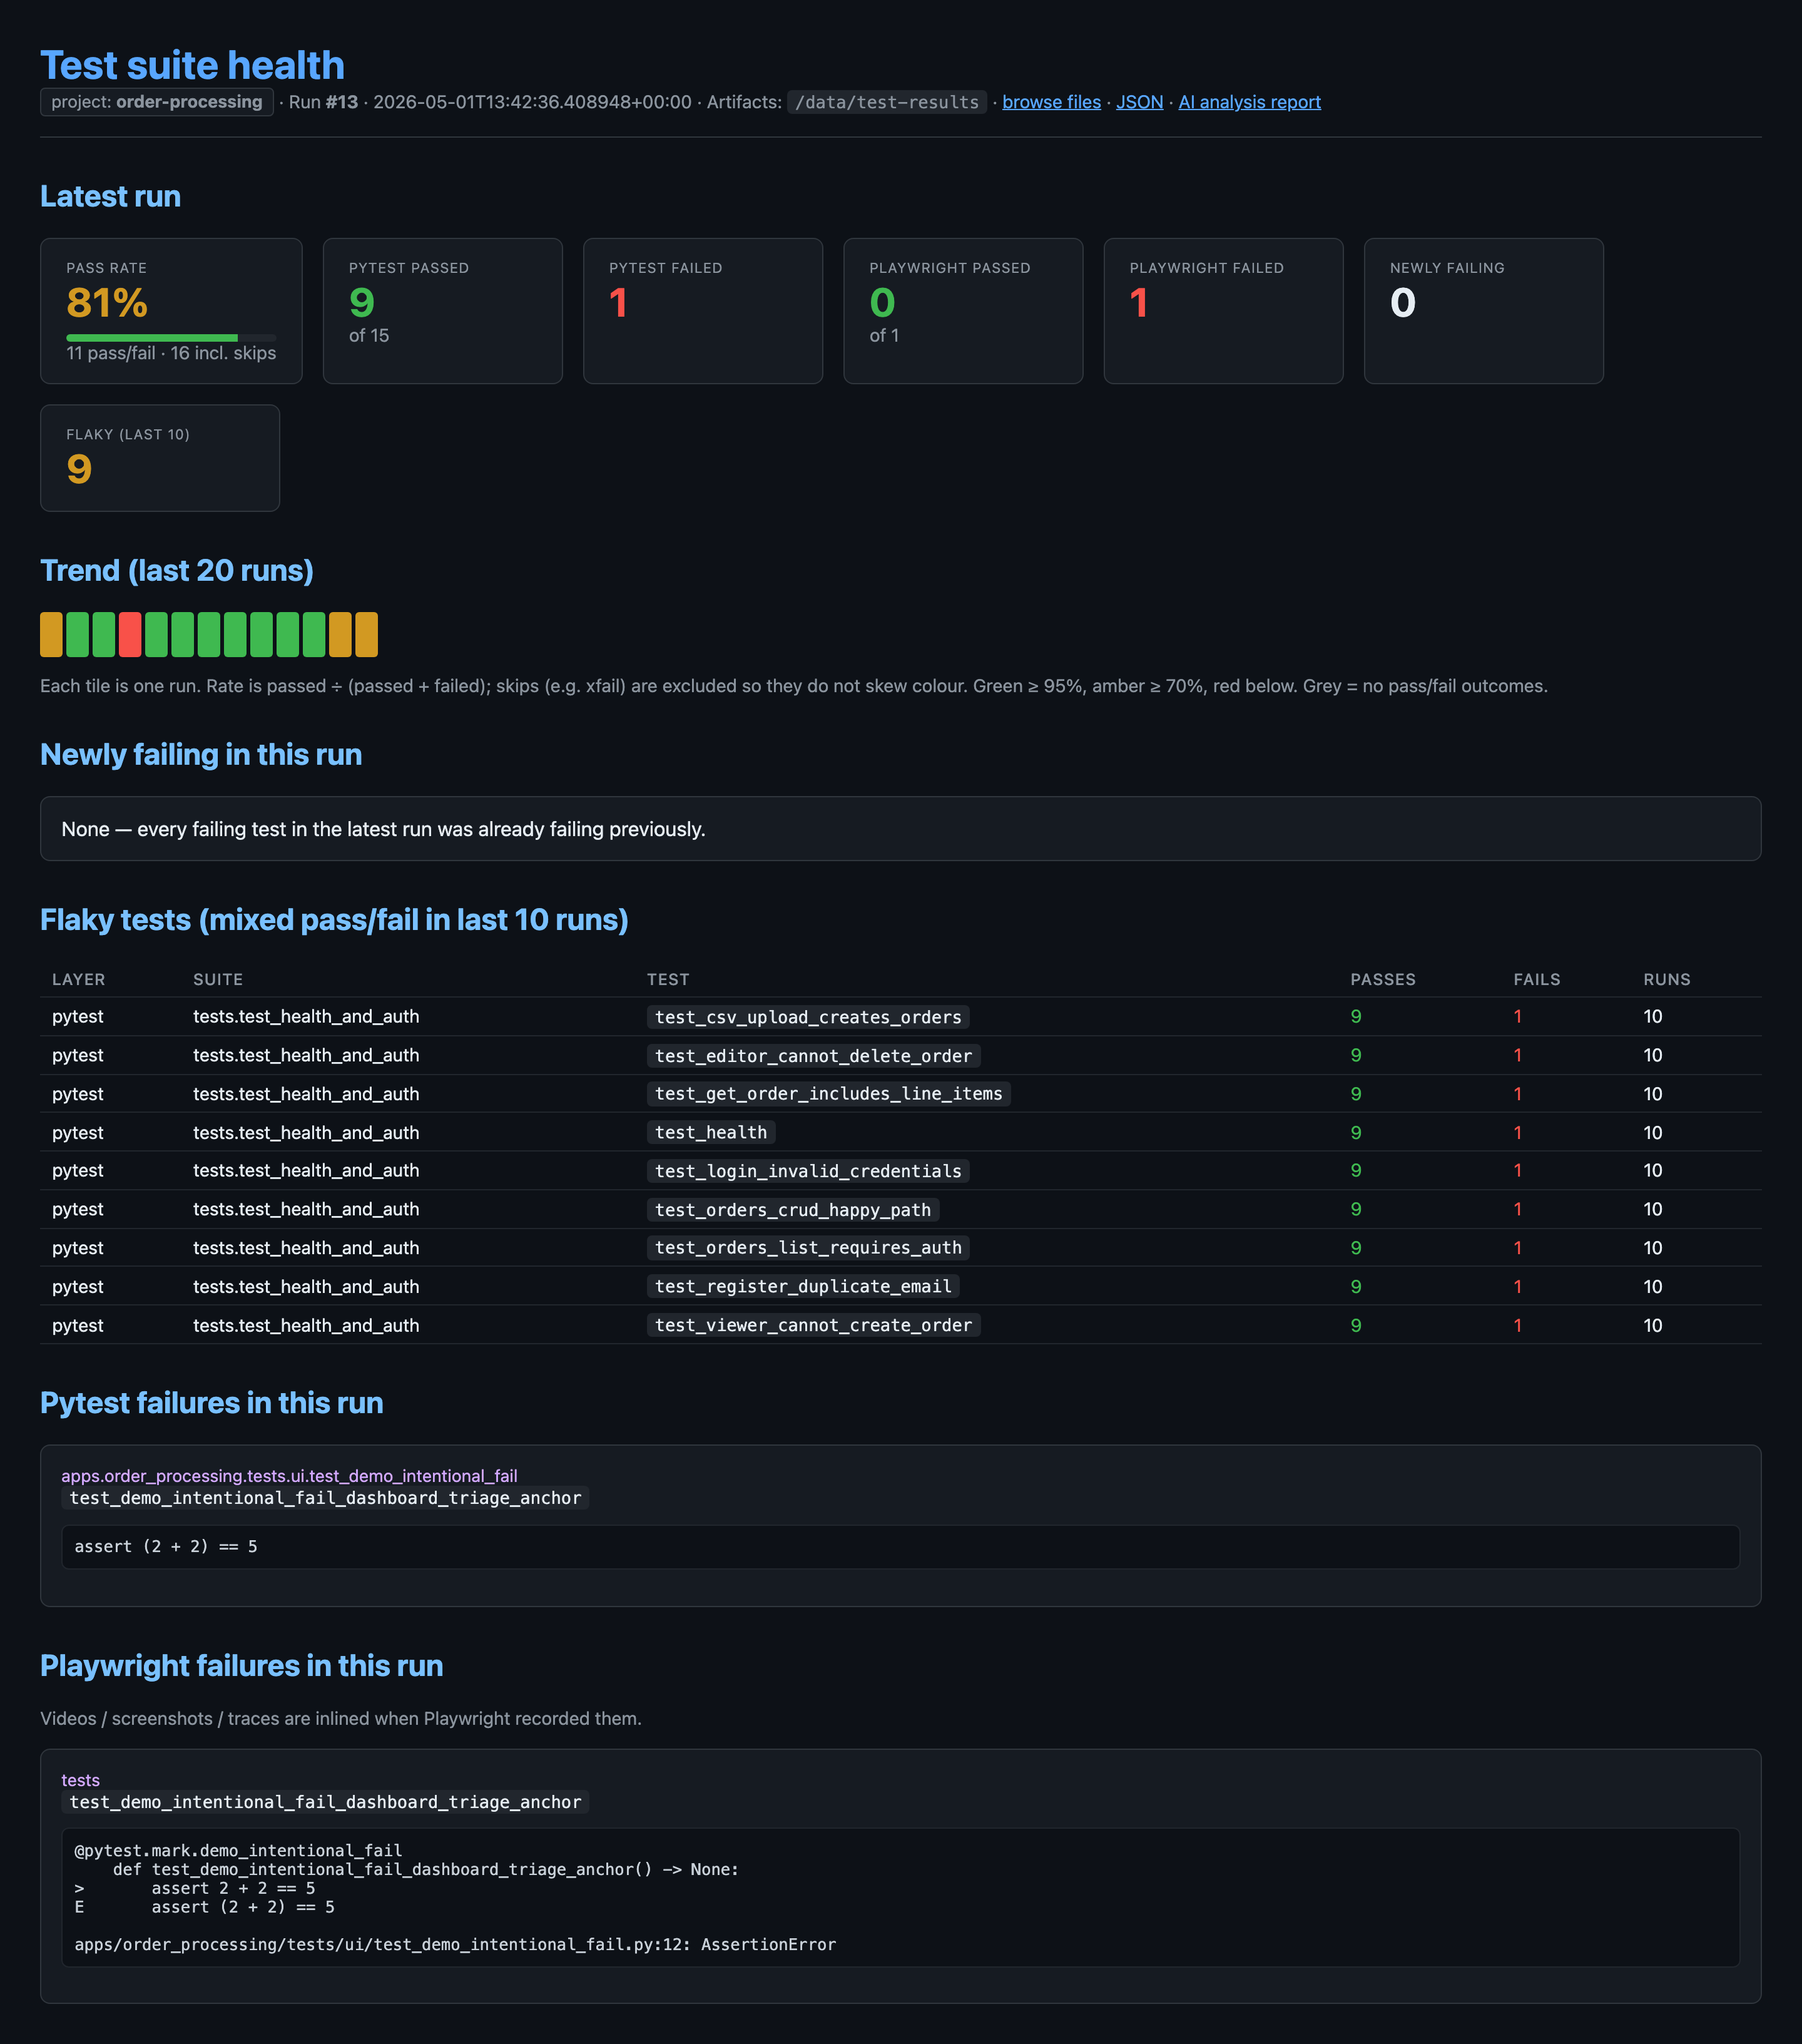
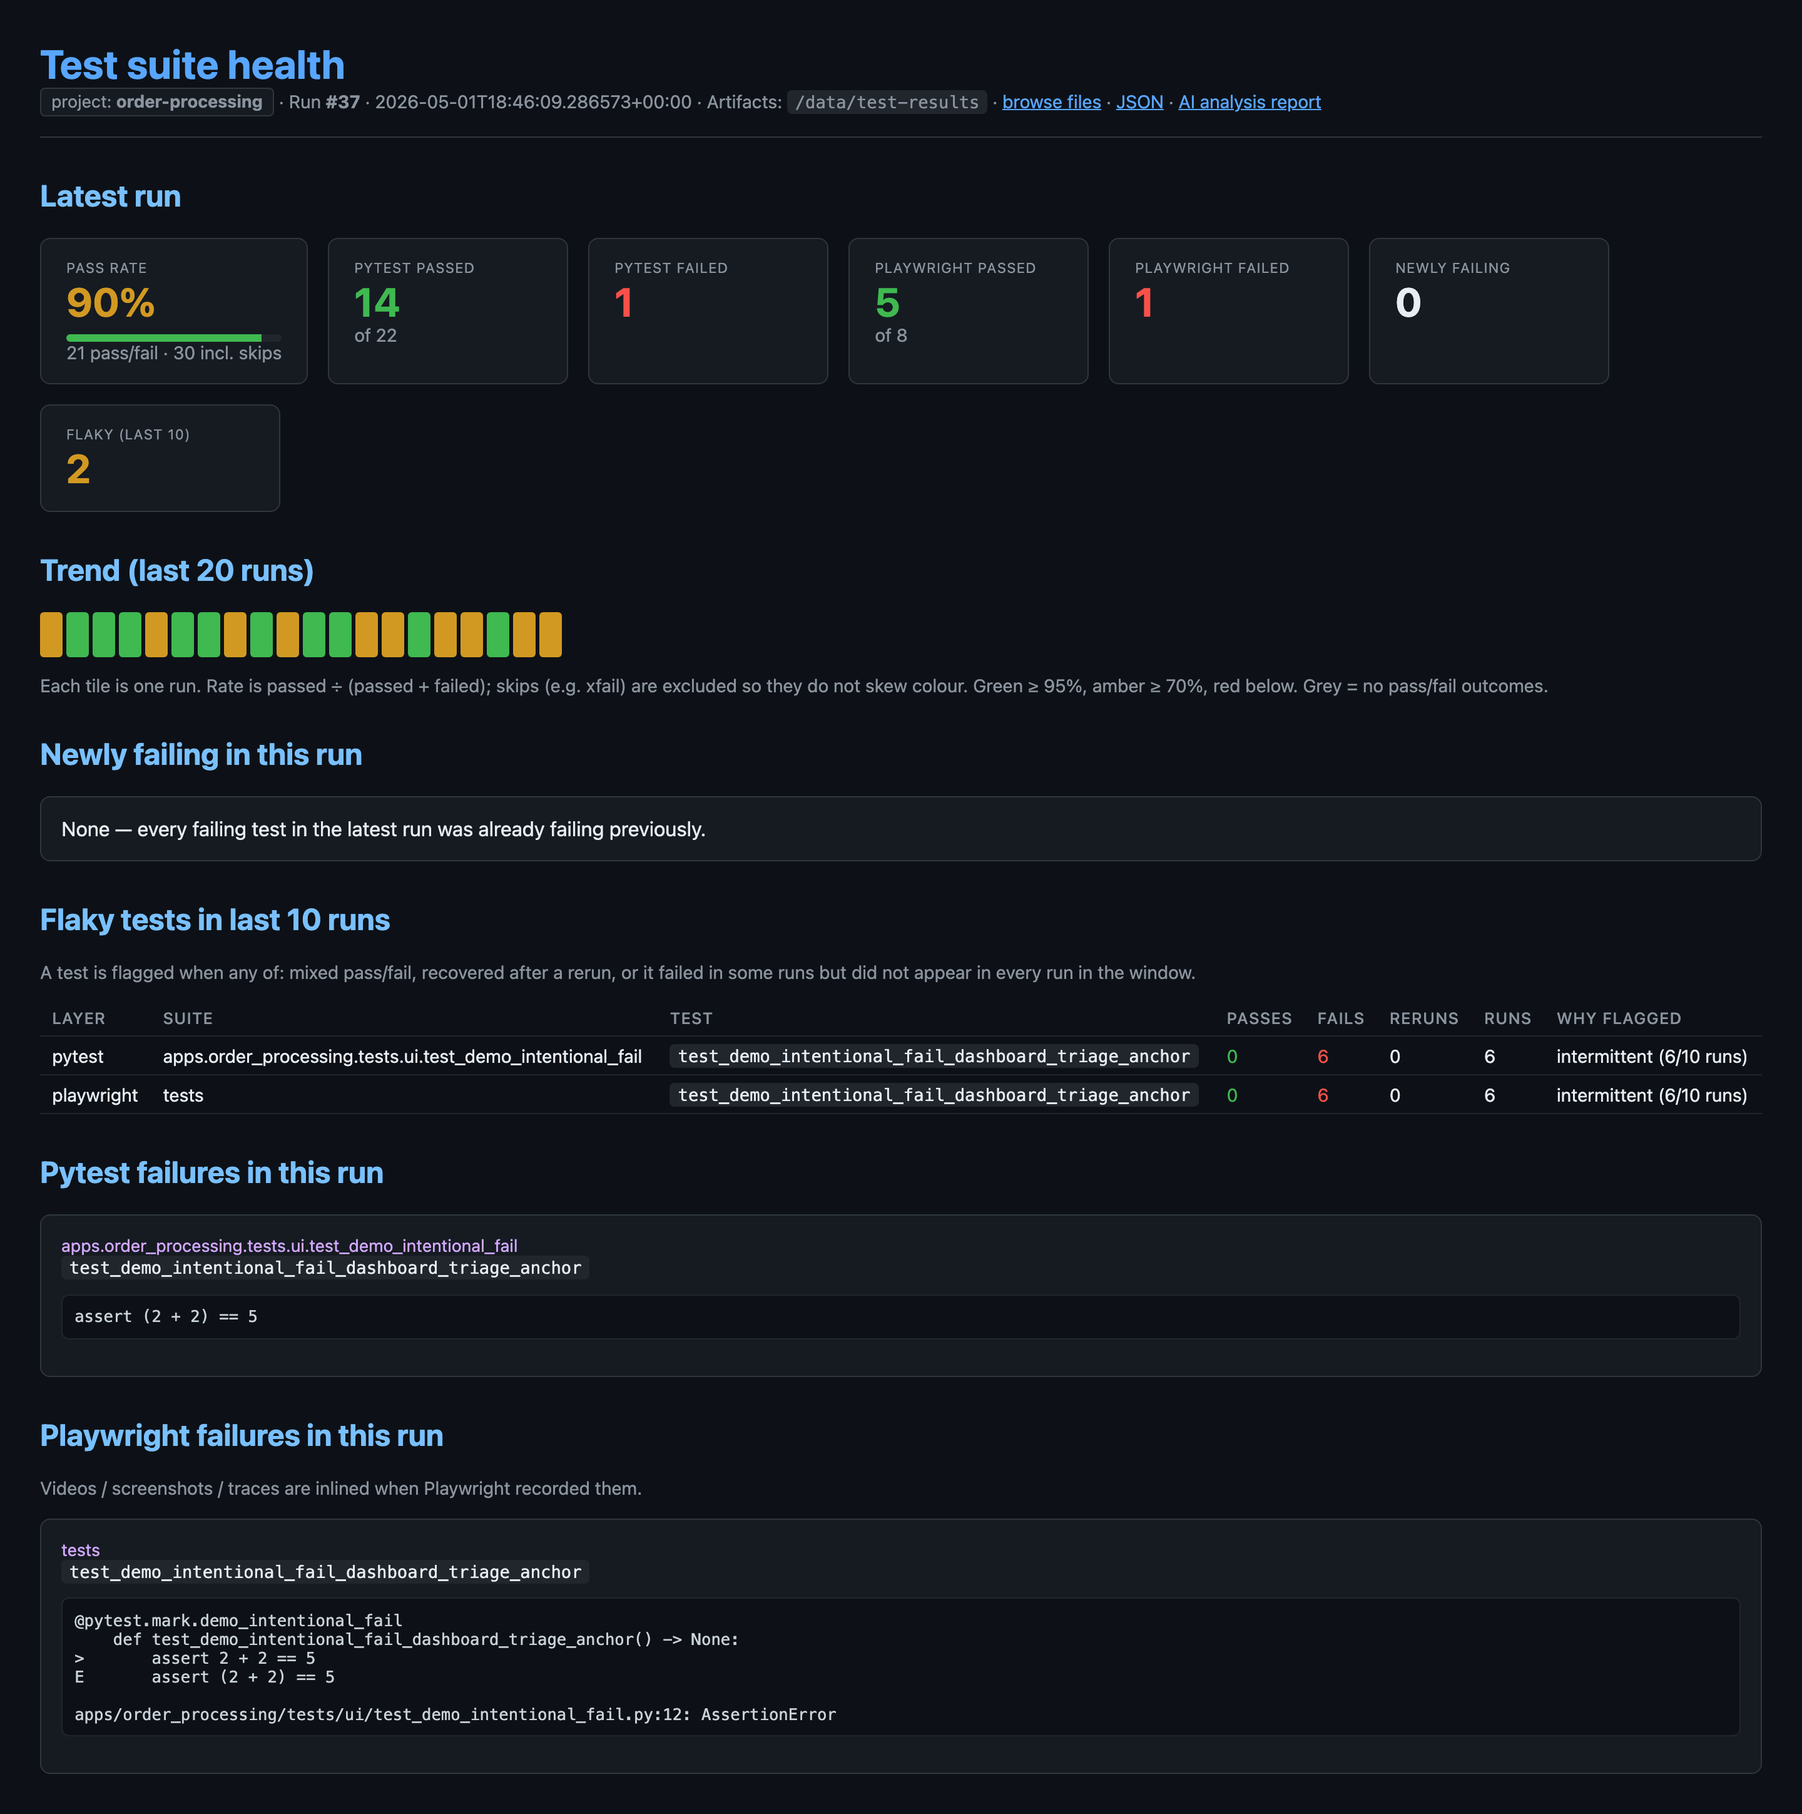
Fix flaky test report issue

diff --git a/automation-framework/dashboard/main.py b/automation-framework/dashboard/main.py
@@ -141,8 +141,12 @@ def _migrate_in_place(conn: sqlite3.Connection) -> None:
             conn.execute(f"ALTER TABLE {table} ADD COLUMN project TEXT NOT NULL DEFAULT 'default'")
             conn.commit()
         except sqlite3.OperationalError:
-            # Column already exists.
             pass
+    try:
+        conn.execute("ALTER TABLE outcomes ADD COLUMN rerun_count INTEGER NOT NULL DEFAULT 0")
+        conn.commit()
+    except sqlite3.OperationalError:
+        pass
 
 
 # ---------------------------------------------------------------------------
@@ -235,15 +239,24 @@ def ingest_current_artifacts(project: str = PROJECT, *, force_duplicate: bool = 
 
         cases: list[dict[str, Any]] = []
         for c in junit.cases:
-            cases.append({"layer": c.layer, "suite": c.suite, "name": c.name, "status": c.status, "duration_ms": c.duration_ms, "message": c.message, "attachments": []})
+            cases.append({
+                "layer": c.layer,
+                "suite": c.suite,
+                "name": c.name,
+                "status": c.status,
+                "duration_ms": c.duration_ms,
+                "message": c.message,
+                "attachments": [],
+                "rerun_count": c.rerun_count,
+            })
         if pw:
             cases.extend(pw.cases)
 
         for c in cases:
             conn.execute(
                 """
-                INSERT INTO outcomes (run_id, project, layer, suite, name, status, duration_ms, message, attachments)
-                VALUES (?, ?, ?, ?, ?, ?, ?, ?, ?)
+                INSERT INTO outcomes (run_id, project, layer, suite, name, status, duration_ms, message, attachments, rerun_count)
+                VALUES (?, ?, ?, ?, ?, ?, ?, ?, ?, ?)
                 """,
                 (
                     run_id,
@@ -255,6 +268,7 @@ def ingest_current_artifacts(project: str = PROJECT, *, force_duplicate: bool = 
                     c.get("duration_ms") or 0.0,
                     c.get("message") or "",
                     json.dumps(c.get("attachments") or []),
+                    int(c.get("rerun_count") or 0),
                 ),
             )
         conn.commit()
@@ -323,6 +337,20 @@ def newly_failing(conn: sqlite3.Connection, project: str) -> list[dict[str, Any]
 
 
 def flaky_tests(conn: sqlite3.Connection, project: str, window: int = FLAKE_WINDOW) -> list[dict[str, Any]]:
+    """Surface tests that are unreliable in the last ``window`` runs.
+
+    A test is flaky if any of these is true within the window:
+
+    1. **Mixed pass/fail** — it has at least one pass *and* at least one fail.
+    2. **Recovered after rerun** — it required pytest-rerunfailures retries
+       (``rerun_count > 0`` from the JUnit ``<rerun>`` element) in any run.
+    3. **Intermittent presence with failure** — it failed at least once but
+       did not appear in every run in the window. This is the canonical case
+       for selectively-deselected tests like the dashboard demo failure, and
+       for tests that are quarantined/skipped intermittently.
+
+    The ``reason`` field on each row tells the triager which signals fired.
+    """
     run_rows = list(
         conn.execute(
             "SELECT id FROM runs WHERE project = ? ORDER BY id DESC LIMIT ?",
@@ -332,25 +360,47 @@ def flaky_tests(conn: sqlite3.Connection, project: str, window: int = FLAKE_WIND
     if not run_rows:
         return []
     run_ids = [r["id"] for r in run_rows]
+    n_runs = len(run_ids)
     placeholders = ",".join("?" for _ in run_ids)
     cur = conn.execute(
         f"""
         SELECT layer, suite, name,
                SUM(CASE WHEN status = 'passed' THEN 1 ELSE 0 END) AS passes,
                SUM(CASE WHEN status IN ('failed','error') THEN 1 ELSE 0 END) AS fails,
+               SUM(COALESCE(rerun_count, 0)) AS reruns,
                COUNT(*) AS runs_with_outcome
         FROM outcomes
         WHERE run_id IN ({placeholders})
         GROUP BY layer, suite, name
-        HAVING passes > 0 AND fails > 0
-        ORDER BY fails DESC, passes DESC
+        HAVING (passes > 0 AND fails > 0)
+            OR reruns > 0
+            OR (fails > 0 AND runs_with_outcome < ?)
+        ORDER BY fails DESC, reruns DESC, passes DESC
         """,
-        run_ids,
+        (*run_ids, n_runs),
     )
-    return [
-        {"layer": r["layer"], "suite": r["suite"], "name": r["name"], "passes": r["passes"], "fails": r["fails"], "runs_with_outcome": r["runs_with_outcome"]}
-        for r in cur
-    ]
+    out: list[dict[str, Any]] = []
+    for r in cur:
+        reasons: list[str] = []
+        if r["passes"] > 0 and r["fails"] > 0:
+            reasons.append("mixed pass/fail")
+        if r["reruns"] > 0:
+            reasons.append(f"recovered after {r['reruns']} rerun(s)")
+        if r["fails"] > 0 and r["runs_with_outcome"] < n_runs:
+            reasons.append(f"intermittent ({r['runs_with_outcome']}/{n_runs} runs)")
+        out.append(
+            {
+                "layer": r["layer"],
+                "suite": r["suite"],
+                "name": r["name"],
+                "passes": r["passes"],
+                "fails": r["fails"],
+                "reruns": r["reruns"],
+                "runs_with_outcome": r["runs_with_outcome"],
+                "reason": "; ".join(reasons) or "—",
+            }
+        )
+    return out
 
 
 def _pass_rate_excluding_skips(
@@ -590,7 +640,9 @@ def _flaky_row(t: dict[str, Any]) -> str:
         f'<td><code>{escape(t["name"])}</code></td>'
         f'<td class="ok">{t["passes"]}</td>'
         f'<td class="bad">{t["fails"]}</td>'
-        f'<td>{t["runs_with_outcome"]}</td></tr>'
+        f'<td>{t.get("reruns", 0)}</td>'
+        f'<td>{t["runs_with_outcome"]}</td>'
+        f'<td>{escape(t.get("reason", ""))}</td></tr>'
     )
 
 
@@ -712,9 +764,10 @@ def _render_dashboard_html(*, project, all_projects, latest, trend, flaky, newly
   </section>
 
   <section>
-    <h2>Flaky tests (mixed pass/fail in last {FLAKE_WINDOW} runs)</h2>
+    <h2>Flaky tests in last {FLAKE_WINDOW} runs</h2>
+    <p class="meta">A test is flagged when any of: mixed pass/fail, recovered after a rerun, or it failed in some runs but did not appear in every run in the window.</p>
     <table class="flaky">
-      <thead><tr><th>Layer</th><th>Suite</th><th>Test</th><th>Passes</th><th>Fails</th><th>Runs</th></tr></thead>
+      <thead><tr><th>Layer</th><th>Suite</th><th>Test</th><th>Passes</th><th>Fails</th><th>Reruns</th><th>Runs</th><th>Why flagged</th></tr></thead>
       <tbody>{flaky_rows}</tbody>
     </table>
   </section>
